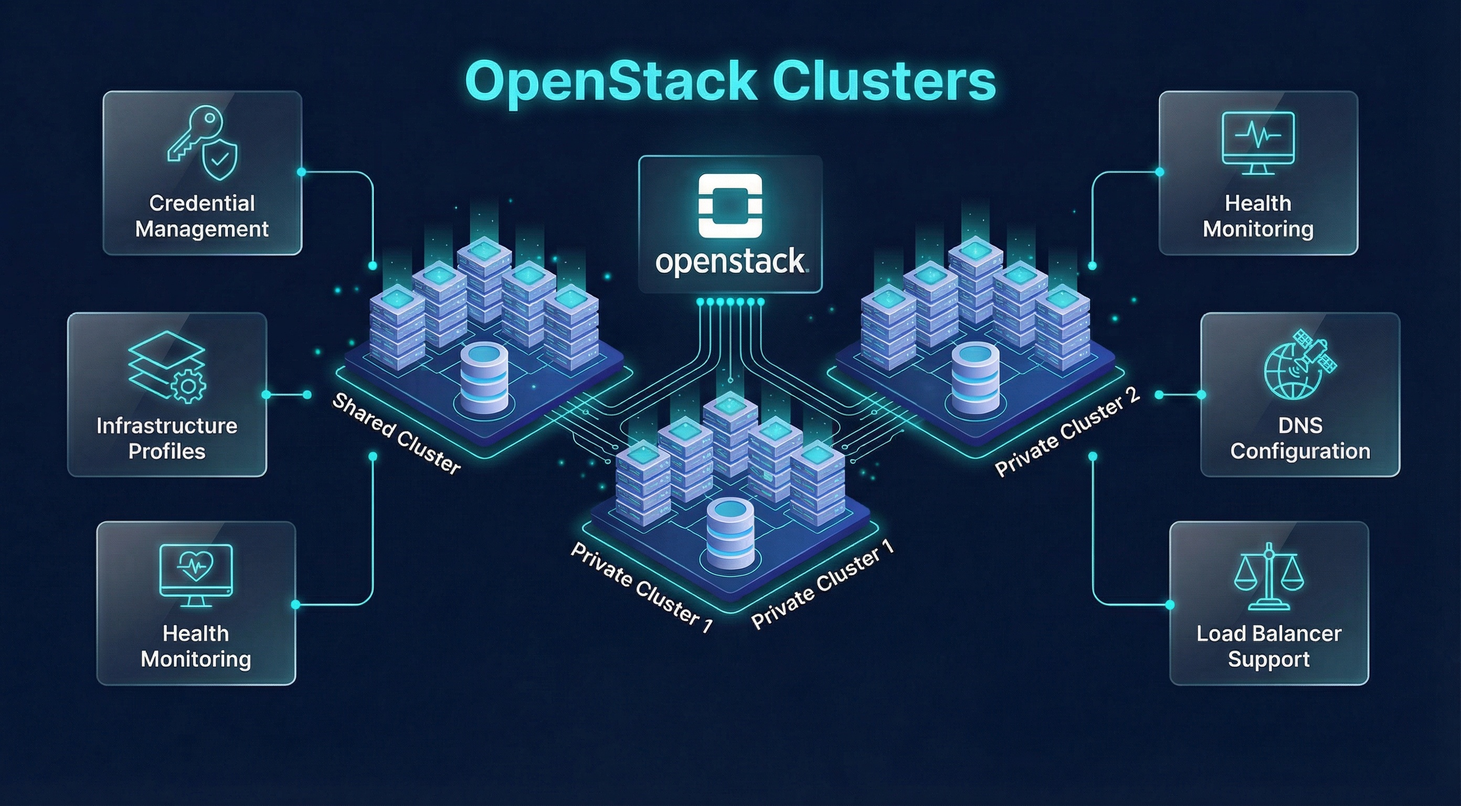
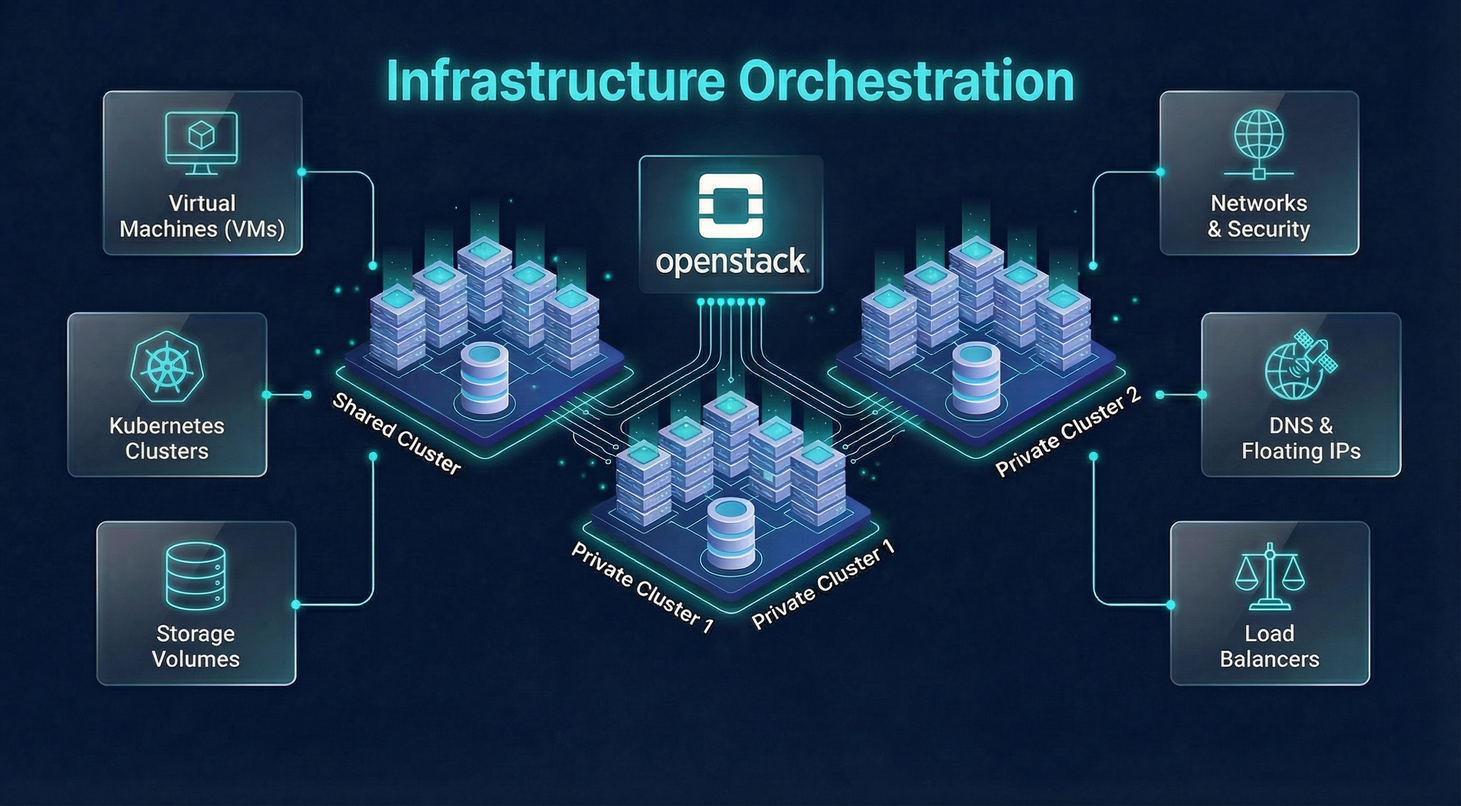
Update OpenStack section to showcase infrastructure resource types (VMs, Clusters, Load Balancers, Storage, Networks, DNS)

diff --git a/index.html b/index.html
@@ -94,32 +94,32 @@
                 <p>Provision, manage, and scale infrastructure resources across multiple OpenStack deployments through a unified self-service GUI or API. Streamline operations with fleet management capabilities that enable you to manage infrastructure at scale.</p>
             </div>
             <div class="visual-showcase visual-large">
-                <img src="04_infrastructure.jpg?v=2" alt="Multi-Cluster OpenStack Infrastructure - cluster management, profiles, credentials, health monitoring" class="visual-image">
+                <img src="04_infrastructure.jpg?v=3" alt="Infrastructure Orchestration - VMs, Clusters, Load Balancers, Storage, Networks" class="visual-image">
             </div>
             <div class="features-inline">
                 <div class="feature-inline-item">
                     <span class="feature-check">✓</span>
-                    <span>Self-service GUI & API provisioning</span>
+                    <span>Virtual Machines (VMs)</span>
                 </div>
                 <div class="feature-inline-item">
                     <span class="feature-check">✓</span>
-                    <span>Fleet management at scale</span>
+                    <span>Kubernetes Clusters</span>
                 </div>
                 <div class="feature-inline-item">
                     <span class="feature-check">✓</span>
-                    <span>Multi-cloud resource orchestration</span>
+                    <span>Load Balancers</span>
                 </div>
                 <div class="feature-inline-item">
                     <span class="feature-check">✓</span>
-                    <span>Infrastructure profiles & templates</span>
+                    <span>Storage Volumes & Snapshots</span>
                 </div>
                 <div class="feature-inline-item">
                     <span class="feature-check">✓</span>
-                    <span>Cross-cluster monitoring & health checks</span>
+                    <span>Networks & Security Groups</span>
                 </div>
                 <div class="feature-inline-item">
                     <span class="feature-check">✓</span>
-                    <span>Unified credential & access management</span>
+                    <span>DNS & Floating IPs</span>
                 </div>
             </div>
             <div class="endpoint-badge-center">
